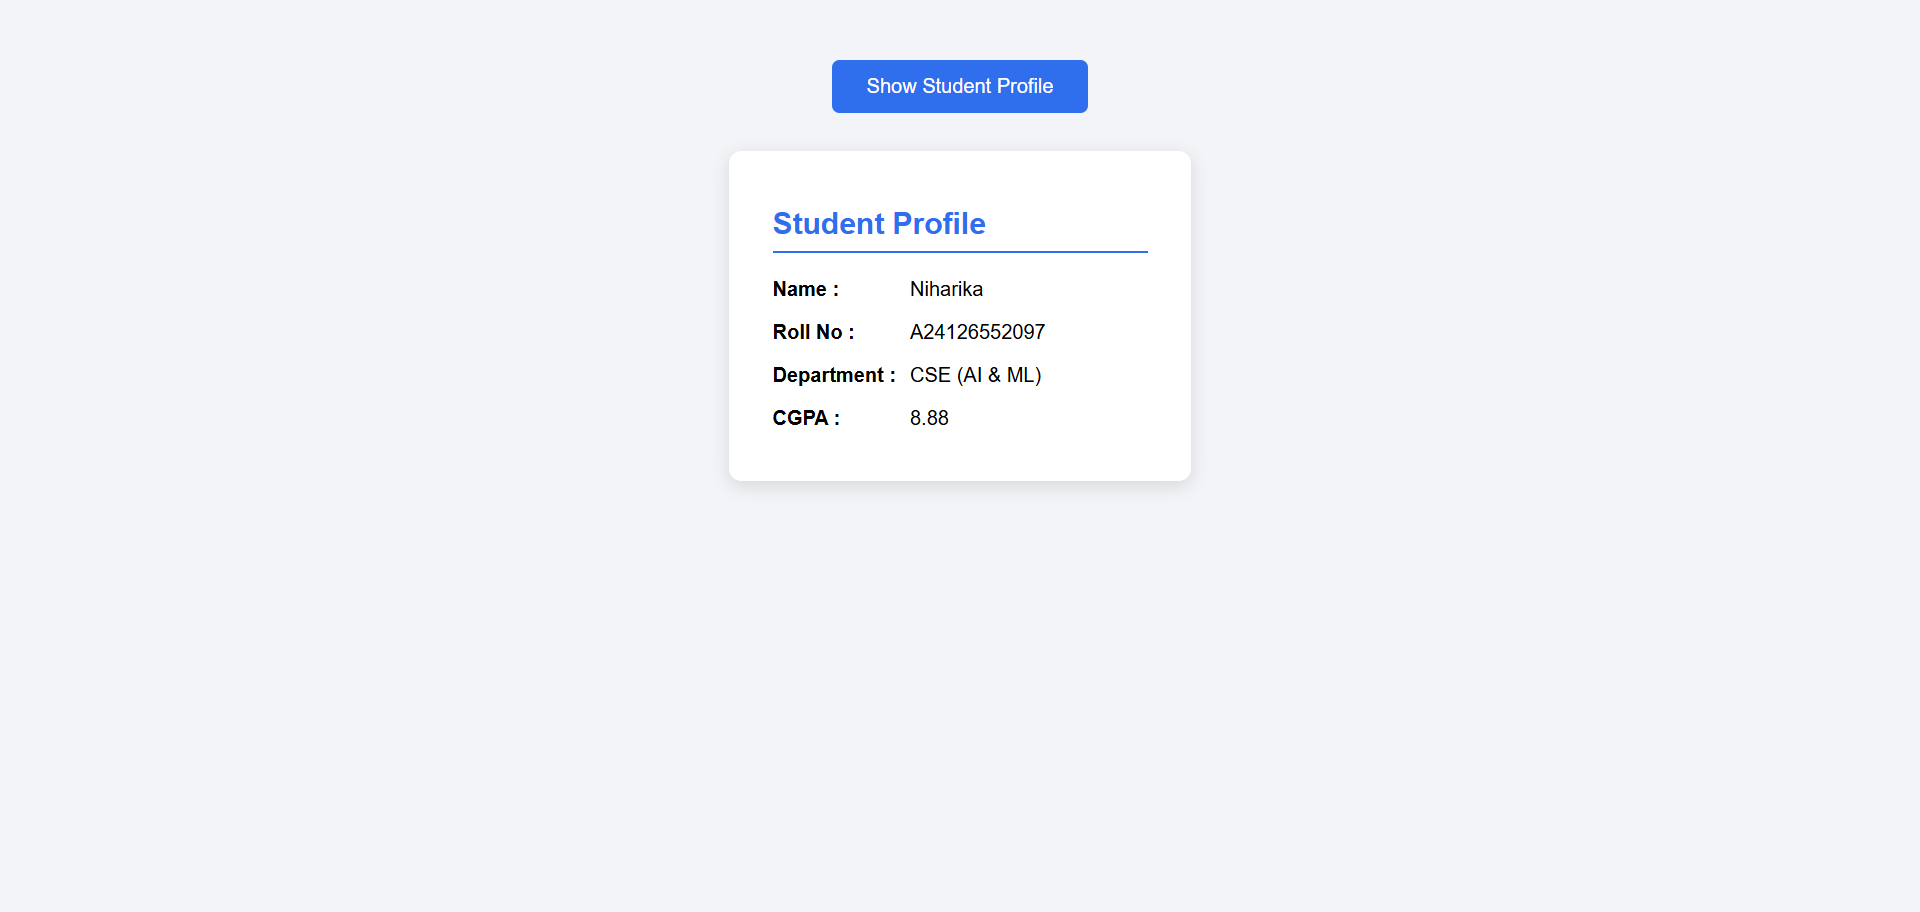
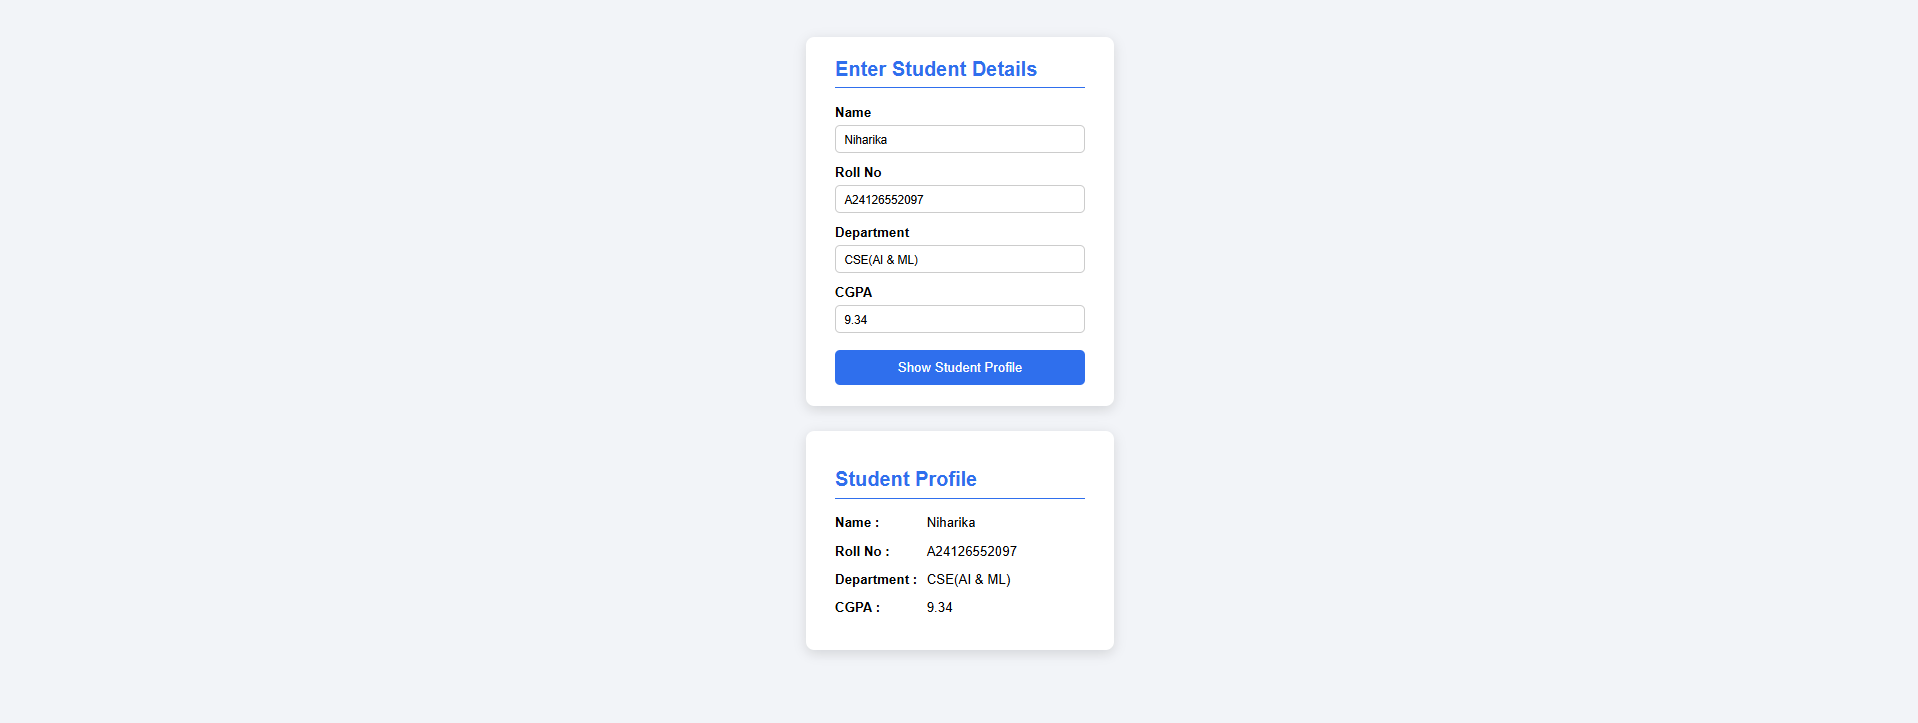
feat: implement student profile generator with form input handling and dynamic DOM rendering

diff --git a/01-OBSERVATION-TASKS/TASK-2/code/script.js b/01-OBSERVATION-TASKS/TASK-2/code/script.js
@@ -1,47 +1,55 @@
 // Student class
-  class Student {
-    constructor(name, rollNo, department, cgpa) {
-      this.name = name;
-      this.rollNo = rollNo;
-      this.department = department;
-      this.cgpa = cgpa;
-    }
+class Student {
+  constructor(name, rollNo, department, cgpa) {
+    this.name = name;
+    this.rollNo = rollNo;
+    this.department = department;
+    this.cgpa = cgpa;
   }
+}
 
-  // Create object with user-provided values
-  const student1 = new Student("Niharika", "A24126552097", "CSE (AI & ML)", 8.88);
+// DOM selection
+const form = document.getElementById("studentForm");
+const container = document.getElementById("profileContainer");
 
-  // DOM selection
-  const btn = document.getElementById("showProfileBtn");
-  const container = document.getElementById("profileContainer");
+// Event handling — build the object from form input on submit
+form.addEventListener("submit", function (e) {
+  e.preventDefault(); // stop the page from reloading on submit
 
-  // Event handling
-  btn.addEventListener("click", function () {
-    container.innerHTML = ""; 
+  // Read the values the user typed in
+  const name = document.getElementById("nameInput").value;
+  const rollNo = document.getElementById("rollInput").value;
+  const department = document.getElementById("deptInput").value;
+  const cgpa = document.getElementById("cgpaInput").value;
 
-    const card = document.createElement("div");
-    card.className = "profile-card";
+  // Create the object with the user-provided values
+  const student1 = new Student(name, rollNo, department, cgpa);
 
-    const title = document.createElement("h2");
-    title.textContent = "Student Profile";
-    card.appendChild(title);
+  container.innerHTML = "";
 
-    const fields = [
-      { label: "Name", value: student1.name },
-      { label: "Roll No", value: student1.rollNo },
-      { label: "Department", value: student1.department },
-      { label: "CGPA", value: student1.cgpa }
-    ];
+  const card = document.createElement("div");
+  card.className = "profile-card";
 
-    fields.forEach(field => {
-      const p = document.createElement("p");
-      const label = document.createElement("span");
-      label.className = "label";
-      label.textContent = field.label + " :";
-      p.appendChild(label);
-      p.appendChild(document.createTextNode(field.value));
-      card.appendChild(p);
-    });
+  const title = document.createElement("h2");
+  title.textContent = "Student Profile";
+  card.appendChild(title);
 
-    container.appendChild(card);
+  const fields = [
+    { label: "Name", value: student1.name },
+    { label: "Roll No", value: student1.rollNo },
+    { label: "Department", value: student1.department },
+    { label: "CGPA", value: student1.cgpa }
+  ];
+
+  fields.forEach(field => {
+    const p = document.createElement("p");
+    const label = document.createElement("span");
+    label.className = "label";
+    label.textContent = field.label + " :";
+    p.appendChild(label);
+    p.appendChild(document.createTextNode(field.value));
+    card.appendChild(p);
   });
+
+  container.appendChild(card);
+});

diff --git a/01-OBSERVATION-TASKS/TASK-2/code/index.html b/01-OBSERVATION-TASKS/TASK-2/code/index.html
@@ -5,9 +5,22 @@
 <title>Student Profile Generator</title>
 <style>
   body { font-family: Arial, sans-serif; text-align: center; padding: 40px; background: #f2f4f8; }
+
+  .form-card { margin: 0 auto; background: #fff; border-radius: 10px;
+               box-shadow: 0 4px 14px rgba(0,0,0,0.12); padding: 25px 35px;
+               width: 300px; text-align: left; }
+  .form-card h2 { color: #2f6fed; border-bottom: 2px solid #2f6fed; padding-bottom: 8px; margin-top: 0; }
+  .form-card label { display: block; font-weight: 600; margin: 14px 0 6px; }
+  .form-card input {
+    width: 100%; padding: 8px 10px; border: 1px solid #ccc; border-radius: 6px;
+    font-size: 14px; box-sizing: border-box;
+  }
+  .form-card input:focus { outline: none; border-color: #2f6fed; }
+
   #showProfileBtn { background: #2f6fed; color: #fff; border: none; padding: 12px 28px;
-                     font-size: 16px; border-radius: 6px; cursor: pointer; }
+                     font-size: 16px; border-radius: 6px; cursor: pointer; margin-top: 20px; width: 100%; }
   #showProfileBtn:hover { background: #1e54c4; }
+
   .profile-card { margin: 30px auto 0; background: #fff; border-radius: 10px;
                    box-shadow: 0 4px 14px rgba(0,0,0,0.12); padding: 25px 35px;
                    width: 300px; text-align: left; }
@@ -16,8 +29,27 @@
 </style>
 </head>
 <body>
-<button id="showProfileBtn">Show Student Profile</button>
+
+<form id="studentForm" class="form-card">
+  <h2>Enter Student Details</h2>
+
+  <label for="nameInput">Name</label>
+  <input type="text" id="nameInput" required placeholder="e.g. Niharika">
+
+  <label for="rollInput">Roll No</label>
+  <input type="text" id="rollInput" required placeholder="e.g. A24126552097">
+
+  <label for="deptInput">Department</label>
+  <input type="text" id="deptInput" required placeholder="e.g. CSE (AI & ML)">
+
+  <label for="cgpaInput">CGPA</label>
+  <input type="number" id="cgpaInput" step="0.01" min="0" max="10" required placeholder="e.g. 8.88">
+
+  <button type="submit" id="showProfileBtn">Show Student Profile</button>
+</form>
+
 <div id="profileContainer"></div>
+
 <script src="script.js"></script>
 </body>
 </html>
